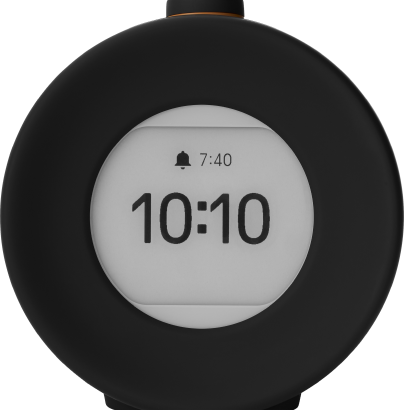
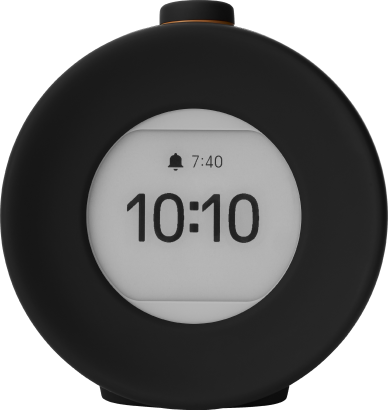
[CP-2378] Device renders updated

diff --git a/libs/core/overview/components/device-preview/device-image.component.tsx b/libs/core/overview/components/device-preview/device-image.component.tsx
@@ -10,7 +10,7 @@ import Image from "Core/__deprecated__/renderer/components/core/image/image.comp
 import { DeviceTestIds } from "Core/overview/components/device-preview/device-preview-test-ids.enum"
 import PureGrayImage from "Core/__deprecated__/renderer/images/pure-gray-render.png"
 import PureBlackImage from "Core/__deprecated__/renderer/images/pure-black-render.png"
-import KompaktGrayImage from "Core/__deprecated__/renderer/images/kompakt-gray-render.png"
+import KompaktBlackImage from "Core/__deprecated__/renderer/images/kompakt-black-render.png"
 import HarmonyGrayImage from "Core/__deprecated__/renderer/images/harmony-gray-render.png"
 import HarmonyBlackImage from "Core/__deprecated__/renderer/images/harmony-black-render.png"
 
@@ -40,7 +40,7 @@ export const DeviceImage: FunctionComponent<DeviceImageProps> = ({
     return <Image src={HarmonyGrayImage} {...props}/>
   }
   if (deviceType === DeviceType.APIDevice) {
-    return <Image src={KompaktGrayImage} {...props}/>
+    return <Image src={KompaktBlackImage} {...props}/>
   }
 
   return <></>
